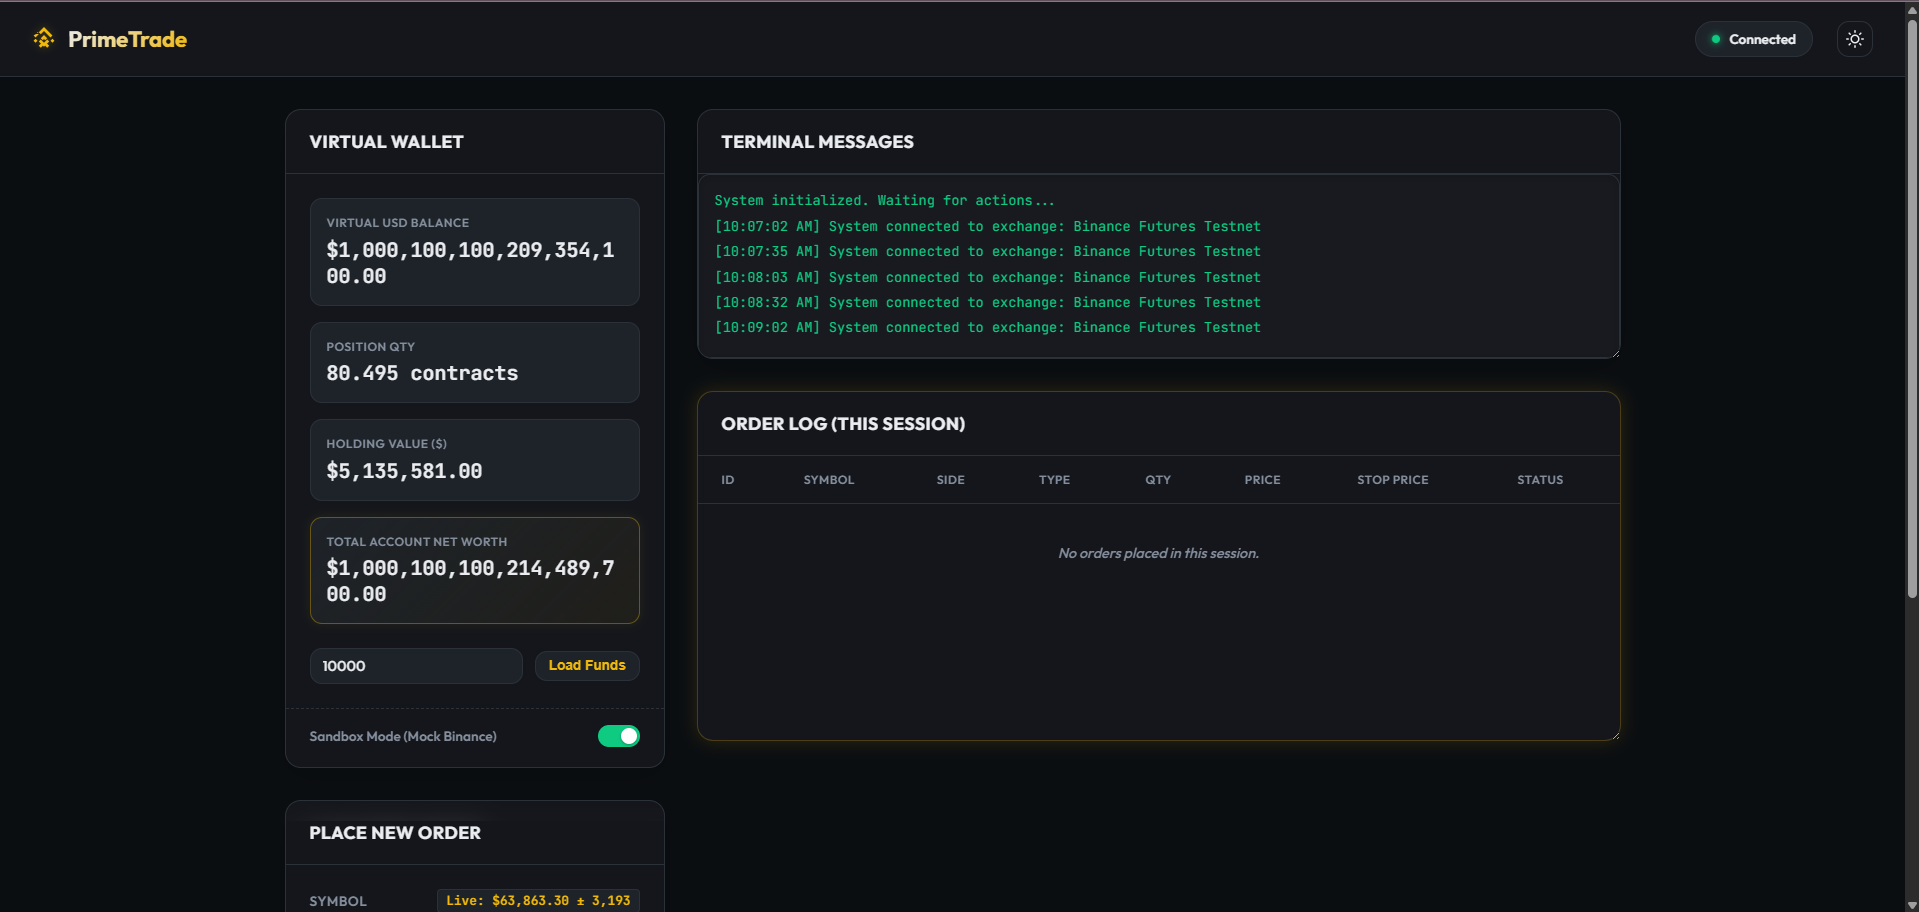
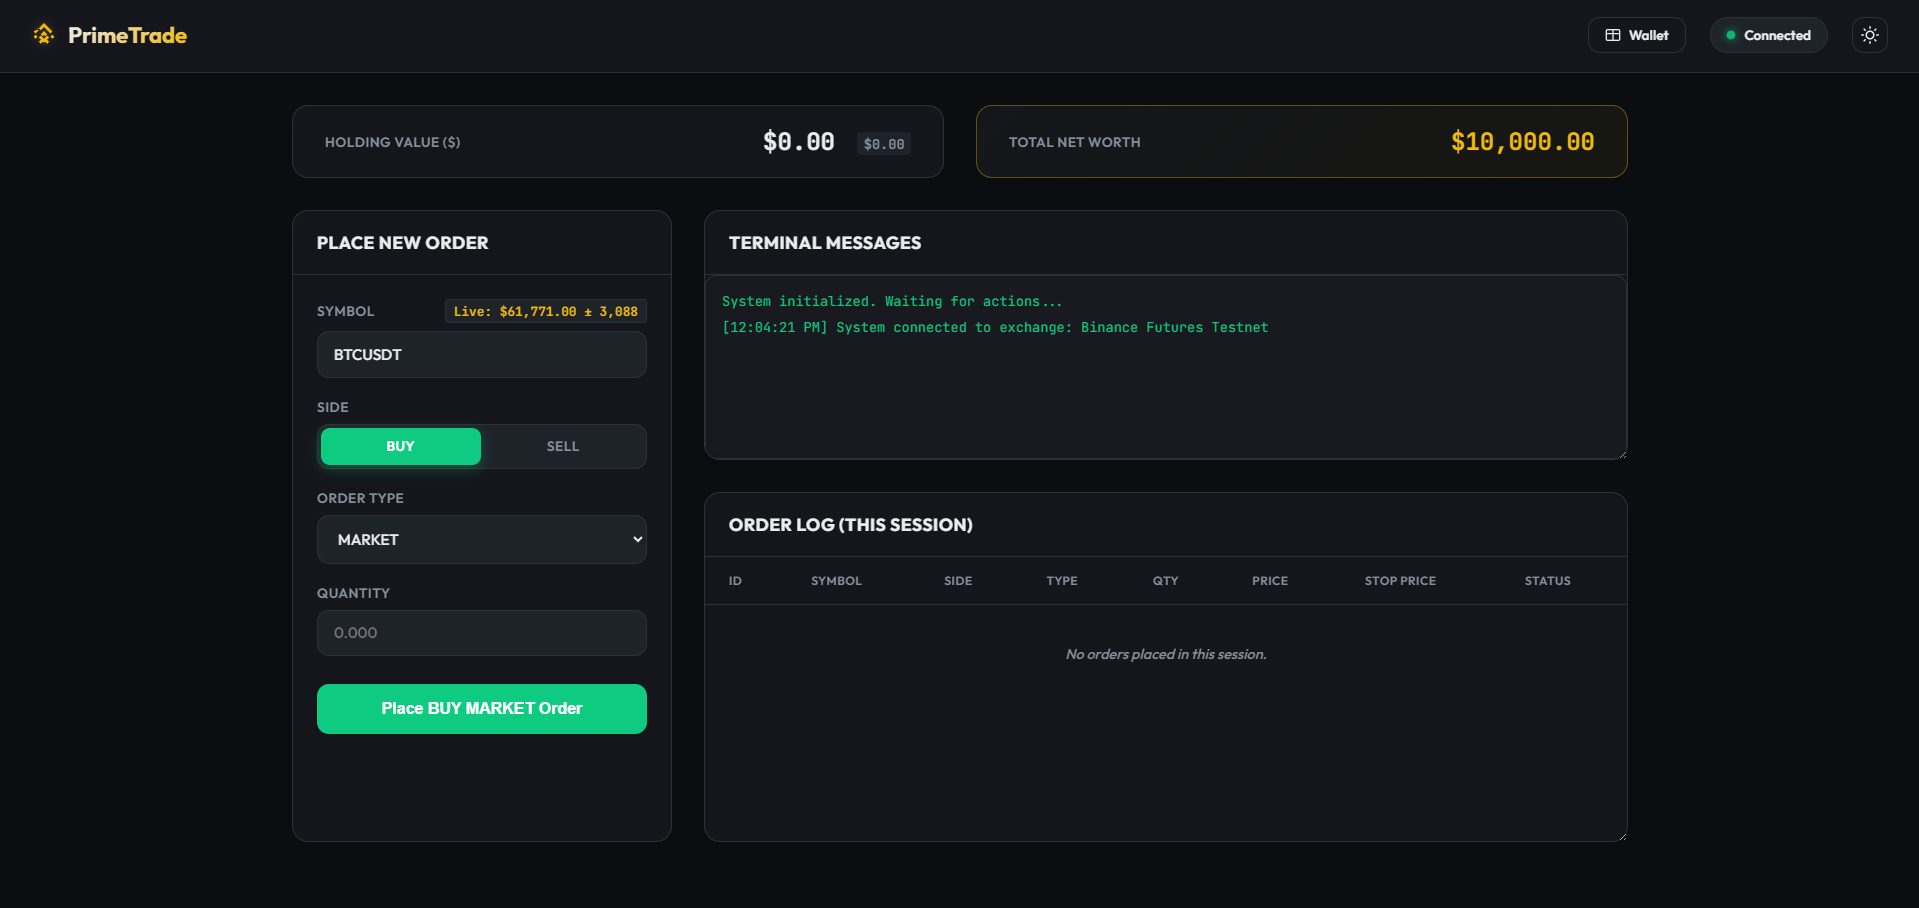
Update README with Virtual Wallet screenshot and new UI layout

diff --git a/README.md b/README.md
@@ -113,11 +113,15 @@ python cli.py stop-limit --symbol BTCUSDT --side BUY --quantity 0.02 --price 692
 
 ---
 
-## 📸 Interface Screenshot
+## 📸 Interface Screenshots
 
 Here is the current updated view of the PrimeTrade Web UI Terminal:
 
 ![PrimeTrade Web UI](prime.png)
+
+Here is the view of the new Virtual Wallet modal interface:
+
+![PrimeTrade Virtual Wallet Modal](primewallet.png)
 
 ---
 